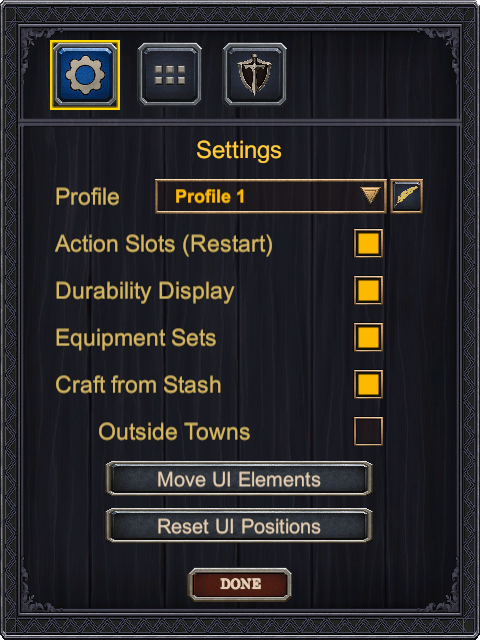
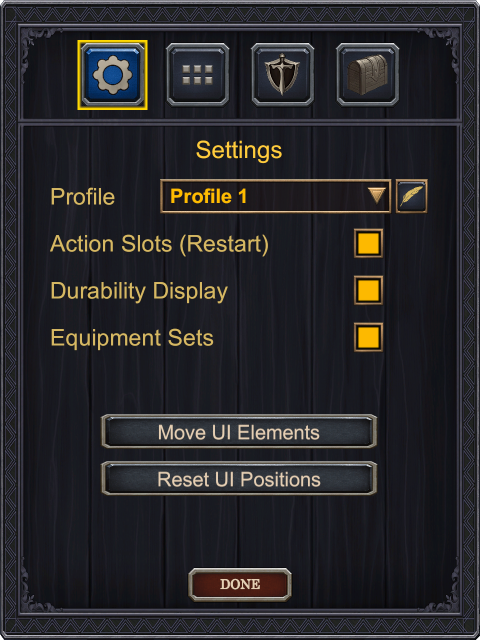
readme and wiki updates for next release

diff --git a/ActionUI/WikiReadmeAssets/Wiki.md b/ActionUI/WikiReadmeAssets/Wiki.md
@@ -1,4 +1,4 @@
-# ![Action UI](https://github.com/ModifAmorphic/outward/blob/master/ActionUI/WikiReadmeAssets/Banner.png?raw=true)
+# ![Action UI](https://github.com/ModifAmorphic/outward/blob/master/ActionUI/Assets/ReadmeAssets/Banner.png?raw=true)
 ⚡ Additional Quickslots, UI Positioning, Durability Display ⚡
 
 Replaces the Outward's built in quickslots with a highly configurable one from this mod. The new Hotbar adds additional slots (referred to as action slots), multiple hotbars and even dividing a hotbar into multiple rows.  In addition, this mod enables moving of many UI elements in the base game and those added by Action UI.  There's also a new durability UI to display worn and broken equipment.
@@ -7,47 +7,45 @@ Replaces the Outward's built in quickslots with a highly configurable one from t
 
 Action UI has many configuration options available. To view them, open the in game pause menu and click on the "Action UI" button. Configuration of Action UI is split between two menus, the main UI settings menu and the configure Hotbars menu.
 
-![Action UI Menu Button](https://github.com/ModifAmorphic/outward/blob/master/ActionUI/WikiReadmeAssets/PauseMenu.png?raw=true)
+![Action UI Menu Button](https://github.com/ModifAmorphic/outward/blob/master/ActionUI/Assets/ReadmeAssets/PauseMenu.png?raw=true)
 
 ### Action UI Settings
 The main Action UI menu contains settings for creating or editing profiles, enabling or disabling Action Slots and Durability Components and moving or resetting UI positions as show below.
 
-![Action UI Settings](https://github.com/ModifAmorphic/outward/blob/master/ActionUI/WikiReadmeAssets/MainSettingsMenu.png?raw=true)
+![Action UI Settings](https://github.com/ModifAmorphic/outward/blob/master/ActionUI/Assets/ReadmeAssets/MainSettingsMenu.png?raw=true)
 
 #### Profile
 Create, select or rename an existing profile with the profile setting options. A Profile contains all of the configuration changes that were made with Action UI.  This includes UI positioning, hotkeys, hotbar configuration and slot assignments in addition to all of the settings listed on the Main and Hotbar settings menus.
 
 ##### Default Profile
-Action UI automatically creates a default "Profile 1" profile the first time the Action UI mod is ran. This profile can be renamed using the rename button ![Rename Button](https://github.com/ModifAmorphic/outward/blob/master/ActionUI/WikiReadmeAssets/RenameButton.png?raw=true). For starting out, this single default profile is all you'll need. A new profile can always be created later, which will carry over all the changes made to the first default profile.
+Action UI automatically creates a default "Profile 1" profile the first time the Action UI mod is ran. This profile can be renamed using the rename button ![Rename Button](https://github.com/ModifAmorphic/outward/blob/master/ActionUI/Assets/ReadmeAssets/RenameButton.png?raw=true). For starting out, this single default profile is all you'll need. A new profile can always be created later, which will carry over all the changes made to the first default profile.
 
 ##### New Profile
 A New Profile can be created by selecting the "[New Profile]" option from the profile drop down. Upon selection of "[New Profile]", enter the name of profile you wish to be created. If you are unable to create a new profile, make sure your name meets [Windows File Naming Conventions](https://docs.microsoft.com/en-us/windows/win32/fileio/naming-a-file#naming-conventions). Creating a new profile saves all of the current changes, essentially making a copy of the existing profile as starting point. Any additional changes made will only be saved to the selected profile.
 
 ##### Renaming a Profile
-Select the profile you wish to rename from the drop down, click the the rename button ![Rename Button](https://github.com/ModifAmorphic/outward/blob/master/ActionUI/WikiReadmeAssets/RenameButton.png?raw=true) and type in a new name. That's it. Like new profiles, renaming a profile must follow the same [Windows File Naming Conventions](https://docs.microsoft.com/en-us/windows/win32/fileio/naming-a-file#naming-conventions).
+Select the profile you wish to rename from the drop down, click the the rename button ![Rename Button](https://github.com/ModifAmorphic/outward/blob/master/ActionUI/Assets/ReadmeAssets/RenameButton.png?raw=true) and type in a new name. That's it. Like new profiles, renaming a profile must follow the same [Windows File Naming Conventions](https://docs.microsoft.com/en-us/windows/win32/fileio/naming-a-file#naming-conventions).
 
 #### Component Toggles
 - The "Action Slots (Restart)" option enables or disables Action UI's configurable Hotbars.  A **game restart** is required for this to take effect. Disabling enables Outward's built in Quick Slots.
 - "Durability Display" toggles the durability display on and off. No restart required.
 - "Equipment Sets" toggles Equipment Sets addon menu and skills.
-- "Craft from Stash" allows use of items in crafting menus directly from the character's stash.
-  - "Outside Towns" enables "Craft from Stash" anywhere.
 
 ***
 
 ### Hotbar Settings
 Add multiple Hotbars, split a Hotbar into rows, add additional Action Slots (Quickslots), and configure Action Slot hotkeys and appearance.
 
-![Hotbar Settings](https://github.com/ModifAmorphic/outward/blob/master/ActionUI/WikiReadmeAssets/HotbarSettingsView.png?raw=true)
+![Hotbar Settings](https://github.com/ModifAmorphic/outward/blob/master/ActionUI/Assets/ReadmeAssets/HotbarSettingsView.png?raw=true)
 
 #### Multiple Hotbars, Rows, Slots
 Setting | Description
 --- | ---
-![Hotbars Setting](https://github.com/ModifAmorphic/outward/blob/master/ActionUI/WikiReadmeAssets/HotbarsSetting.png?raw=true) | Multiple Hotbar setting. Increasing this value adds additional Hotbars that can be switched to using the next, previous or Hotbar Hotkeys.
-![Hotbar Rows](https://github.com/ModifAmorphic/outward/blob/master/ActionUI/WikiReadmeAssets/HotbarRowsSetting.png?raw=true) | Adds an additional row of Action Slots to each row. Each row will contain the number of Action Slots configure with the Action Slots setting. For example, if "Action Slots" is 11 and "Hotbar Rows" is 2, then 2 rows of 11 Action Slots will be shown for each Hotbar.
-![ActionSlots](https://github.com/ModifAmorphic/outward/blob/master/ActionUI/WikiReadmeAssets/ActionSlotsSetting.png?raw=true) | Adds an additional row of Action Slots to each row. Each row will contain the number of Action Slots configure with the Action Slots setting. For example, if "Action Slots" is 11 and "Hotbar Rows" is 2, then 2 rows of 11 Action Slots will be shown for each Hotbar.
+![Hotbars Setting](https://github.com/ModifAmorphic/outward/blob/master/ActionUI/Assets/ReadmeAssets/HotbarsSetting.png?raw=true) | Multiple Hotbar setting. Increasing this value adds additional Hotbars that can be switched to using the next, previous or Hotbar Hotkeys.
+![Hotbar Rows](https://github.com/ModifAmorphic/outward/blob/master/ActionUI/Assets/ReadmeAssets/HotbarRowsSetting.png?raw=true) | Adds an additional row of Action Slots to each row. Each row will contain the number of Action Slots configure with the Action Slots setting. For example, if "Action Slots" is 11 and "Hotbar Rows" is 2, then 2 rows of 11 Action Slots will be shown for each Hotbar.
+![ActionSlots](https://github.com/ModifAmorphic/outward/blob/master/ActionUI/Assets/ReadmeAssets/ActionSlotsSetting.png?raw=true) | Adds an additional row of Action Slots to each row. Each row will contain the number of Action Slots configure with the Action Slots setting. For example, if "Action Slots" is 11 and "Hotbar Rows" is 2, then 2 rows of 11 Action Slots will be shown for each Hotbar.
 
-![Hotbar Example](https://github.com/ModifAmorphic/outward/blob/master/ActionUI/WikiReadmeAssets/Hotbar.png?raw=true)
+![Hotbar Example](https://github.com/ModifAmorphic/outward/blob/master/ActionUI/Assets/ReadmeAssets/Hotbar.png?raw=true)
 
 #### Show Cooldown Timer
 Enables a numeric countdown display for each Action Slot representing the time left before an action becomes available to use.
@@ -57,8 +55,8 @@ Enables a numeric countdown display for each Action Slot representing the time l
 Configures how an Action Slot is displayed if no action is assigned to it.
 Option | Image | Description
 --- | --- | ---
-Transparent | ![Transparent Action Slot](https://github.com/ModifAmorphic/outward/blob/master/ActionUI/WikiReadmeAssets/ActionSlotEmptyTransparent.png?raw=true) | Empty Action Slots have a transparent background.
-Image | ![Empty Image Action Slot](https://github.com/ModifAmorphic/outward/blob/master/ActionUI/WikiReadmeAssets/ActionSlotEmptyImage.png?raw=true) | A solid black image is shown as a placeholder in each empty Action Slot.
+Transparent | ![Transparent Action Slot](https://github.com/ModifAmorphic/outward/blob/master/ActionUI/Assets/ReadmeAssets/ActionSlotEmptyTransparent.png?raw=true) | Empty Action Slots have a transparent background.
+Image | ![Empty Image Action Slot](https://github.com/ModifAmorphic/outward/blob/master/ActionUI/Assets/ReadmeAssets/ActionSlotEmptyImage.png?raw=true) | A solid black image is shown as a placeholder in each empty Action Slot.
 Hidden | N/A | The Action Slot is hidden completely. To assign an action to a hidden slot, change this setting to either the Transparent or Image option and assign the action then switch back to Hidden.
 
 #### Combat Mode
@@ -69,16 +67,16 @@ Why does Combat mode exist? Outward is balanced around only having 8 actions ava
 ***
 
 ### Hotkey Capture Mode
-Hotkeys for switching Hotbars and triggering Action Slots are configured through Hotkey Capture Mode.  This mode is enabled by clicking the "Set Hotkeys button ![Set Hotkeys Button](https://github.com/ModifAmorphic/outward/blob/master/ActionUI/WikiReadmeAssets/SetHotkeys.png?raw=true) on the [Hotbar Settings](https://github.com/ModifAmorphic/outward/wiki/Action-UI#hotbar-settings) menu.  Once in this mode, simply click the Hotkey button you wish to change as shown below and press a key or mouse button you wish to assign.
+Hotkeys for switching Hotbars and triggering Action Slots are configured through Hotkey Capture Mode.  This mode is enabled by clicking the "Set Hotkeys button ![Set Hotkeys Button](https://github.com/ModifAmorphic/outward/blob/master/ActionUI/Assets/ReadmeAssets/SetHotkeys.png?raw=true) on the [Hotbar Settings](https://github.com/ModifAmorphic/outward/wiki/Action-UI#hotbar-settings) menu.  Once in this mode, simply click the Hotkey button you wish to change as shown below and press a key or mouse button you wish to assign.
 
-![Hotkey Capture](https://github.com/ModifAmorphic/outward/blob/master/ActionUI/WikiReadmeAssets/HotbarCapture.png?raw=true)
+![Hotkey Capture](https://github.com/ModifAmorphic/outward/blob/master/ActionUI/Assets/ReadmeAssets/HotbarCapture.png?raw=true)
 
 ***
 
 ### Equipment Set Settings
 Configure various Equipment Set options, from allowing armor swaps in combat to equipping directly from the character's stash.
 
-![Equipment Set Settings](https://github.com/ModifAmorphic/outward/blob/master/ActionUI/WikiReadmeAssets/EquipmentSetSettingsView.png?raw=true)
+![Equipment Set Settings](https://github.com/ModifAmorphic/outward/blob/master/ActionUI/Assets/ReadmeAssets/EquipmentSetSettingsView.png?raw=true)
 
 #### Use Armor Sets in combat
 Allows swapping of equipment sets while in combat.
@@ -100,51 +98,74 @@ Armor or Weapon Sets will be unequipped directly to the character's stash. Equip
 
 ***
 
+### Stash Settings
+Configure stash usage while crafting, selling, equiping gear or in the character inventory menu.
+
+![Stash Settings](https://github.com/ModifAmorphic/outward/blob/master/ActionUI/Assets/ReadmeAssets/StashSettingsView.png?raw=true)
+
+#### Character inventory stash
+Stash is added to the bottom of the character inventory menu.  Also, items from the stash are included when selecting different gear in the equipment menu.
+
+#### Merchant Stash
+The stash is made available when selling or buying from a merchant.
+
+#### Craft from Stash
+Adds items from stash as available ingredients when a recipe or ingredient slot is selected.
+
+##### Stash available anywhere
+By default, Character Inventory, Merchant and Craft from Stash options only work inside towns where stashes exist, regardless of whether or not the character owns housing in the town. This option enables the stash from anywhere in the game. It is basically a cheat.
+
+##### Stash preserves food%
+Items in the stash have their decay amount reduced by the percentage provided. Valid range is 1-100%, where 100% completely prevent decay. (Food never decayed in the stash in Oldward)
+
+
+***
+
 ## Assigning Actions / QuickSlots
 There are 2 ways to assign an action to an Action Slot.  The first is to open up Outward's inventory or skill menu and simply drag the item or skill to the desired slot. Not all items are slottable, so if you are unable assign an action to a slot this is probably why.  To clear an existing action from an Action Slot, right-click the slot.
 
-![Drag and Drop to Action Slots](https://github.com/ModifAmorphic/outward/blob/master/ActionUI/WikiReadmeAssets/ActionSlotsDragging.png?raw=true)
+![Drag and Drop to Action Slots](https://github.com/ModifAmorphic/outward/blob/master/ActionUI/Assets/ReadmeAssets/ActionSlotsDragging.png?raw=true)
 
 The second method of assigning actions is to use Action UI's Action Viewer menu.  To open the viewer, first open up an Outward inventory (or any other menu that gives you a mouse pointer besides the pause menu.  Then click on the Action Slot you wish to assign.  The Action Viewer will be displayed with a list of tabs on the left to switch between different action categories.  Clicking on an action assigns that action the Action Slot.
 
-![Action Viewer](https://github.com/ModifAmorphic/outward/blob/master/ActionUI/WikiReadmeAssets/ActionViewer.png?raw=true)
+![Action Viewer](https://github.com/ModifAmorphic/outward/blob/master/ActionUI/Assets/ReadmeAssets/ActionViewer.png?raw=true)
 
 ### Assign Action Slots Video
-[ ![Assign Actions YouTube Video](https://github.com/ModifAmorphic/outward/blob/master/ActionUI/WikiReadmeAssets/AssignActionSlotVideo.png?raw=true) ](https://youtu.be/nJT76DLFIqw)
+[ ![Assign Actions YouTube Video](https://github.com/ModifAmorphic/outward/blob/master/ActionUI/Assets/ReadmeAssets/AssignActionSlotVideo.png?raw=true) ](https://youtu.be/nJT76DLFIqw)
 
 ***
 
 ## Equipment Sets
-Armor and Weapon Sets are managed using an addon to Outward's built in Equipment Menu, broken into a separate view for each. New equipment sets are created using the ![Add Button](https://github.com/ModifAmorphic/outward/blob/master/ActionUI/WikiReadmeAssets/AddButton.png?raw=true), which prompts for the name of the new set.  Sets can be renamed with the ![Rename Button](https://github.com/ModifAmorphic/outward/blob/master/ActionUI/WikiReadmeAssets/RenameButton.png?raw=true). Any existing set can be altered by first selecting it in the dropdown, changing gear in the equipment menu, and saving.  Delete simply deletes the existing set and the skill associated with it.
+Armor and Weapon Sets are managed using an addon to Outward's built in Equipment Menu, broken into a separate view for each. New equipment sets are created using the ![Add Button](https://github.com/ModifAmorphic/outward/blob/master/ActionUI/Assets/ReadmeAssets/AddButton.png?raw=true), which prompts for the name of the new set.  Sets can be renamed with the ![Rename Button](https://github.com/ModifAmorphic/outward/blob/master/ActionUI/Assets/ReadmeAssets/RenameButton.png?raw=true). Any existing set can be altered by first selecting it in the dropdown, changing gear in the equipment menu, and saving.  Delete simply deletes the existing set and the skill associated with it.
 
-![Equipment Sets Addon Menu](https://github.com/ModifAmorphic/outward/blob/master/ActionUI/WikiReadmeAssets/EquipmentSetsMenu.png?raw=true)
+![Equipment Sets Addon Menu](https://github.com/ModifAmorphic/outward/blob/master/ActionUI/Assets/ReadmeAssets/EquipmentSetsMenu.png?raw=true)
 
 ### Icon Setting
 The Icon setting allows you to select which Equipment Icon should be shown as the Equipment Set Skill created for each set.
 
 ### Equipment Set Skills
-Creating an Equipment set in the Equipment Menu also adds a corresponding Skill for the owning character. These skills can be found under Outward's Skills menu, in the Active Skills tab. Once added, these skills can be assigned to an Action Slot or one of Outward's Keyboard or Controller Quickslots. Equipment Set skills have an [Equipment Set Icon](https://github.com/ModifAmorphic/outward/blob/master/ActionUI/WikiReadmeAssets/EquipmentSetIcon.png?raw=true) icon in the bottom right corner to help distinguish them from other skills.
+Creating an Equipment set in the Equipment Menu also adds a corresponding Skill for the owning character. These skills can be found under Outward's Skills menu, in the Active Skills tab. Once added, these skills can be assigned to an Action Slot or one of Outward's Keyboard or Controller Quickslots. Equipment Set skills have an [Equipment Set Icon](https://github.com/ModifAmorphic/outward/blob/master/ActionUI/Assets/ReadmeAssets/EquipmentSetIcon.png?raw=true) icon in the bottom right corner to help distinguish them from other skills.
 
-![Equipment Set Skills](https://github.com/ModifAmorphic/outward/blob/master/ActionUI/WikiReadmeAssets/EquipmentSetSkills.png?raw=true)
+![Equipment Set Skills](https://github.com/ModifAmorphic/outward/blob/master/ActionUI/Assets/ReadmeAssets/EquipmentSetSkills.png?raw=true)
 
 ***
 
 ## UI Positioning Mode
-Action Menu's includes a UI Positioning Mode that allows for many UI elements in Outward to be positioned by dragging and dropping them to wherever you want.  To enter UI Positioning Mode by clicking on the "Move UI Elements" ![Move UI Elements](https://github.com/ModifAmorphic/outward/blob/master/ActionUI/WikiReadmeAssets/MoveUIElements.png?raw=true) button in the Action UI Settings Menu [Action UI Settings Menu](https://github.com/ModifAmorphic/outward/wiki/Action-UI#action-ui-settings).
+Action Menu's includes a UI Positioning Mode that allows for many UI elements in Outward to be positioned by dragging and dropping them to wherever you want.  To enter UI Positioning Mode by clicking on the "Move UI Elements" ![Move UI Elements](https://github.com/ModifAmorphic/outward/blob/master/ActionUI/Assets/ReadmeAssets/MoveUIElements.png?raw=true) button in the Action UI Settings Menu [Action UI Settings Menu](https://github.com/ModifAmorphic/outward/wiki/Action-UI#action-ui-settings).
 
-![UI Positioning Mode](https://github.com/ModifAmorphic/outward/blob/master/ActionUI/WikiReadmeAssets/UIPositioning.png?raw=true)
+![UI Positioning Mode](https://github.com/ModifAmorphic/outward/blob/master/ActionUI/Assets/ReadmeAssets/UIPositioning.png?raw=true)
 
-Click the Reset Button ![Reset Button](https://github.com/ModifAmorphic/outward/blob/master/ActionUI/WikiReadmeAssets/ResetUIElement.png?raw=true) of an individual UI element to rest it back to it's original position.  To reset all UI Positions of all UI Elements, click the "Reset UI Positions" button [Reset UI Positions](https://github.com/ModifAmorphic/outward/blob/master/ActionUI/WikiReadmeAssets/ResetUI.png?raw=true) in the Action UI Settings Menu [Action UI Settings Menu](https://github.com/ModifAmorphic/outward/wiki/Action-UI#action-ui-settings).
+Click the Reset Button ![Reset Button](https://github.com/ModifAmorphic/outward/blob/master/ActionUI/Assets/ReadmeAssets/ResetUIElement.png?raw=true) of an individual UI element to rest it back to it's original position.  To reset all UI Positions of all UI Elements, click the "Reset UI Positions" button [Reset UI Positions](https://github.com/ModifAmorphic/outward/blob/master/ActionUI/Assets/ReadmeAssets/ResetUI.png?raw=true) in the Action UI Settings Menu [Action UI Settings Menu](https://github.com/ModifAmorphic/outward/wiki/Action-UI#action-ui-settings).
 
 ### UI Positioning Video
-[ ![UI Positioning YouTube Video](https://github.com/ModifAmorphic/outward/blob/master/ActionUI/WikiReadmeAssets/UIPositioningVideo.png?raw=true) ](https://youtu.be/zoY1qEdeATg)
+[ ![UI Positioning YouTube Video](https://github.com/ModifAmorphic/outward/blob/master/ActionUI/Assets/ReadmeAssets/UIPositioningVideo.png?raw=true) ](https://youtu.be/zoY1qEdeATg)
 
 ***
 
 ## Durability Display
 Action UI adds a display to track equipment durability without needing to examine each individual piece.
 
-![Durability Display](https://github.com/ModifAmorphic/outward/blob/master/ActionUI/WikiReadmeAssets/DurabilityDisplay.png?raw=true)
+![Durability Display](https://github.com/ModifAmorphic/outward/blob/master/ActionUI/Assets/ReadmeAssets/DurabilityDisplay.png?raw=true)
 
 Durability Threshold | Stat Potency | Color
 --- | --- | ---

diff --git a/ActionUI/README.md b/ActionUI/README.md
@@ -1,6 +1,6 @@
 # ![Action UI](https://github.com/ModifAmorphic/outward/blob/master/ActionUI/WikiReadmeAssets/Banner.png?raw=true)
 
-## ⚡ Equipment Sets, Additional Quickslots, UI Positioning, Durability Display ⚡
+## ⚡ Additional Quickslots, Equipment Sets, Durability Display, UI Positioning, Stash Improments ⚡
 
 ***
 
@@ -9,6 +9,7 @@
 - Create Weapon and Armor Sets. Equip entire sets with a single hotkey.
 - Reposition UI Elements with Drag and Drop
 - New Durability UI Displays Equipment
+- Use stash while crafting, selling, equiping gear or in the character inventory menu
 - See the [Action UI Wiki](https://github.com/ModifAmorphic/outward/wiki/Action-UI) for more details
 
 ***
@@ -48,6 +49,12 @@
 ## Equipment Durability UI
 
 ![Durability Display](https://github.com/ModifAmorphic/outward/blob/master/ActionUI/WikiReadmeAssets/DurabilityDisplay.png?raw=true)
+
+***
+
+## Stash Improvements
+
+![Stash Settings](https://github.com/ModifAmorphic/outward/blob/master/ActionUI/WikiReadmeAssets/StashSettingsView.png?raw=true)
 
 ***
 
